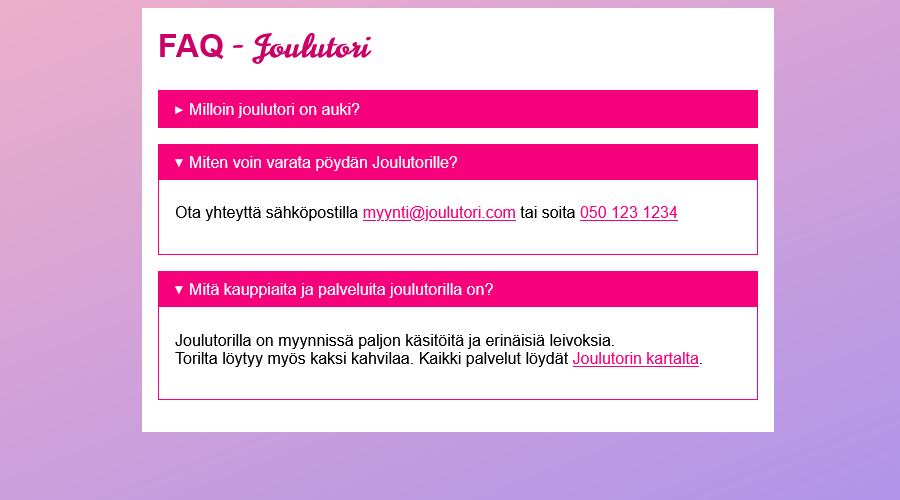
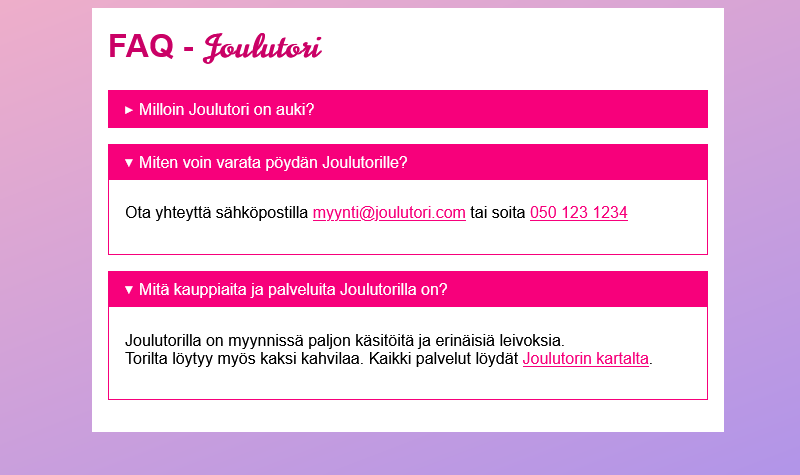
add e9

Changed region(s): [[0.0938, 0.0, 0.9062, 0.9137]]

diff --git a/exercises/e9/e9.html b/exercises/e9/e9.html
@@ -1,0 +1,258 @@
+<!DOCTYPE html>
+<html lang="en">
+<head>
+    <meta charset="UTF-8">
+    <meta http-equiv="X-UA-Compatible" content="IE=edge">
+    <meta name="viewport" content="width=device-width, initial-scale=1.0">
+    <title>Harjoitus 9</title>
+      <style>
+    @import url('https://fonts.googleapis.com/css2?family=Open+Sans:ital,wght@0,400;0,700;1,400&display=swap');
+
+    html {
+      font-family: 'Open Sans', sans-serif;
+    }
+    img {
+      max-width: 600px;
+    }
+    xmp {
+      line-height: 1.5em;
+      background-color: #111;
+      color: white;
+      padding: 1em;
+    }
+    .sides{
+      display: flex;
+      align-items: flex-start;
+      justify-content: left;
+      gap: 1em;
+      flex-basis:30%;
+      flex-wrap: wrap;
+
+    }
+    .sides img{
+      object-fit: contain;
+      max-width: 100%;
+      border: solid thin black;
+
+    }
+    .split{
+        display: flex;
+    
+    }
+    .split div{
+         flex-basis: 50%;
+    }
+    .fav_media_icon{
+        height: 1.4em;
+    }
+
+  </style>
+</head>
+<body>
+<h1>Web-Sovelluksen Käyttöliittymä</h1>
+    <xmp>html_css_basics
+|
+├── demos
+│   └── ...
+|
+├── exercises
+│   ├── ...
+│   └── e9
+│       ├── style.css
+│       ├── index.html
+│       └── img
+│           ├── {fav_icon.png}
+│           ├── bird1.jpg
+│           ├── bird2.jpg
+│           └── bird3.jpg
+|
+</xmp>
+<h2>Toteuta puhelinsovellusta muistuttava nettisivu</h2>
+<ul>
+    <li>Sivuston aiheen ja linkit voit valita itse</li>
+    <li>Kaikki html koodi on yhdessä index.html tiedostossa ja tyylit style.css</li>
+    <li>Vain yksi pääsisältöelementti on kerrallaan näkyvissä (photos, videos tai stories)</li>
+    <li>Alavalikosta vaihdetaan näkyvissä olevaa elementtiä, mutta käyttäjä pysyy silti sivulla index.html</li>
+    <li>Toteutus on siis single-page-application (SPA)</li>
+
+    <li>Käynnistä Live Server ja tarkastele sivua responsiivisessa kehittäjätilassa</li>
+    <li>
+        Firefox: Hiiren oik. > Inspect > Resposive Design Mode (puhelinkuvake)
+    </li>
+    <li>
+        Chrome: Hiiren oik. > Tarkista > Toggle device toolbar (puhelinkuvake)
+    </li>
+
+</ul>
+<div class="sides">
+    <img src="img/photos.png" alt="photos">
+    <img src="img/videos.png" alt="videos">
+    <img src="img/stories.png" alt="stories">
+</div>
+<hr>
+<h2>HTML</h2>
+<ul>
+<li>Lisää fav-icon <img src="img/media-icon.png" alt="media" class="fav_media_icon"> headiin ja muut elementit bodyyn </li>
+<li>Lisää navigaatio (nav) jossa on lista (ul) jossa on listakohtia (li)</li>
+<li>Listakohtia on 3 ja niiden sisällä on linkki (a) jonka sisällä on svg-kuva ja linkkiteksti </li>
+<li>Käytä esim. <a href="https://heroicons.com/" target="_blank">Heroicons</a> sivua:<br>Etsi sopiva kuvake. Vie hiiri kuvakkeen päälle ja klikkaa Copy SVG<br>
+    Liitä leikepöydälle saamasi koodi li-tagin sisälle linkkitekstin kanssa</li>
+</ul>
+<img src="img/mobile_nav.jpg" alt="mobile_nav">
+
+<ul>
+    <li>Tee main-elementti ja lisää sen sisälle 3 section-elementtiä</li>
+    <li>Laita sectioneille yksilöivät id:t joihin viittaat navigaation a-tageissa (href)</li>
+    <li>Kunkin sectionin sisällä on h2 jossa lukee osion nimi (photos, videos, stories)</li>
+    <li>Muu osion sisältö on kääritty ylimääräiseen  diviin</li>
+</ul>
+
+<div class="split">
+    <div><h3>Section #photos</h3>
+        <ul>
+            <li>Lisää otsikko h2 Photos</li>
+<li>Lisää kuvia ja kuvatekstejä käyttäen figure-figcaption yhdistelmää</li>
+
+        </ul>
+    </div>
+    <div><img src="img/photos_sec.jpg" alt="photos_sec">
+
+</div>
+</div>
+
+<div class="split">
+    <div><h3>Section #videos</h3>
+        <ul>
+        <li>Käytä edellisen tapaan figure-figcaption yhdistelmää,<br>mutta vaihda img tagin tilalle YouTube iframe upotuskoodi.</li>
+<li>Poista iframen width ja height parametrit</li>
+
+    </ul>
+    </div>
+    <div><img src="img/videos_sec.jpg" alt="videos_sec"></div>
+</div>
+<div class="split">
+    <div><h3>Section #stories</h3>
+<ul>
+    <li>Lisää article tageja joissa on h3 otsikko artikkelille</li>
+    <li>Tekstisisältö on yhdessä tai useammassa p-tagissa</li>
+    <li>Lisää kirjoittajan tiedot i-tagilla</li>
+</ul>
+</div>
+    <div><img src="img/stories_sec.jpg" alt="stories_sec"></div>
+</div>
+
+
+<hr>
+<h2>CSS</h2>
+
+
+<ul>
+    <li>Valitse mieleisesti Google Fontti ja importtaa siitä italic, regular ja bold -leikkaukset</li>
+    <li>Määrittele valmiiksi linkkien ja tekstien värejä :root muuttujiksi</li>
+    <li>Lisää myös navigaation korkeus (50px) ja otsikon korkeus (50px) -muuttujat</li>
+    <li>laita * selektorille  box-sizing: border-box;</li>
+</ul>
+<ul>
+    <li><b>body</b></li>
+    <li>Nollaa bodyn marginaalit</li>
+    <li>Aseta valitsemasi Google Fontti</li>
+    <li>aseta taustaväri ja tekstin väri</li>
+</ul>
+<ul>
+    <li><b>h2</b></li>
+    <li>h2 toimii sivun otsikkona</li>
+    <li>aseta sille position: fixed;</li>
+    <li>ja leveys 100%</li>
+    <li>asemoi otsikko ylös ja vasemmalle top: 0; left: 0;</li>
+    <li>aseta korkeudeksi otsikon korkeus -muuttuja</li>
+    <li>keskitä teksti ja aseta otsikon väri</li>
+</ul>
+
+<ul>
+    <li><b>nav</b></li>
+    <li>aseta alanavigaation taustaväri ja tekstin väri</li>
+    <li>aseta korkeudeksi navigaation korkeus -muuttuja</li>
+    <li>aseta position: fixed; ja bottom: 0;</li>
+    <li>nyt navigaatio pysyy sivun alalaidassa ja on helpompi käyttää kännykällä</li>
+    <li>aseta leveydeksi 100%</li>
+</ul>
+
+<ul>
+    <li><b>nav ul</b></li>
+    <li>nollaa marginaalit ja paddingit</li>
+    <li>Lisää display:flex; justify-content: space-around;</li>
+    <li>keskitä flex elementit myös pystysuunnassa</li>
+    <li>piennnä fonttia tarvittaessa</li>
+    <li>aseta korkeudeksi 100%</li>
+    <li>nyt navigaation linkit ovat tasaisin välimatkoin alapalkissa</li>
+</ul>
+
+<ul>
+    <li><b>nav a, nav a:visited</b></li>
+    <li>aseta linkkien väri</li>
+    <li>poista alleviivaus</li>
+    <li>aseta display: flex; flex-direction: column;</li>
+    <li>jolloin linkin kuvake ja teksti menevät päällekkäin</li>
+</ul>
+
+<ul>
+    <li><b>nav svg</b></li>
+    <li>aseta kuvakkeen korkeus esim. 20px</li>
+    <li>vaihda kuvakkeen väriä stroke: rgb(0, 255, 200); tai käytä määrittelemääsi muuttujaa</li>
+    <li>Jos kuvake ei muodostu ääriviivoista, kuten Heroiconsin kuvakkeet niin kokeile fill: rgb(0, 255, 200);</li>
+    <li>Tee hover-pseudo ja vaihda linkkitekstin ja kuvakkeen väriä hover-tilassa</li>
+</ul>
+
+<ul>
+    <li><b>main h2 + div</b></li>
+    <li>Aseta main elementin korkeus siten, että se täyttää koko ruudun miinus ylä ja alapalkkien korkeus</li>
+    <li>height: calc(100vh - var( --nav_height) - var(--heading_height));</li>
+    <li>lisää ylämarginaalia otsikon korkeuden verran</li>
+    <li>keskitä teksti vasemmalle</li>
+    <li>aseta overflow-y: auto; jotta main elementtiä voi scrollata jos sisältö ei mahdu ruutuun</li>
+    <li>lisää padding: 1em;</li>
+</ul>
+<ul>
+<li><b>p</b></li>
+<li>pienennä paragraph pagin ylämarginaalia</li>
+</ul>
+<ul>
+<li><b>section</b></li>
+<li>aseta display: none;</li>
+<li>koska vain yhden sectionin on tarkoitus olla kerrallaan näkyvissä</li>
+</ul>
+<ul>
+<li><b>#photos</b></li>
+<li>Jos ensimmäisen sectionisi id on photos, niin laita se oletuksena näkyville display: block;</li>
+<li>section:target</li>
+<li>aseta display: block; koska klikattaessa sectionin tulee ilmestyä näkyville</li>
+<li>section:target ~ #photos</li>
+<li>aseta display: none; koska muiden kuin klikatun sectionin pitää samalla piiloutua</li>
+</ul>
+<ul>
+<li><b>figure</b></li>
+<li>poista figuren marginaalit, paitsi alamarginaali</li>
+<li><b>figure img</b></li>
+<li>aseta maksimileveys 100%</li>
+<li><b>figcaption</b></li>
+<li>boldaa teksti</li>
+</ul>
+<ul>
+<li><b>h3</b></li>
+<li>säädä väliotsikon marginaaleja pienemmäksi</li>
+</ul>
+<ul>
+<li><b>i</b></li>
+<li>tasaa teksti oikealle</li>
+<li>lisää display: block; jolloin i tagi täyttää koko parentin leveyden ja tasaus toimii</li>
+<li>vaihda tekstin väri harmaaksi</li>
+</ul>
+<ul>
+<li><b>iframe</b></li>
+<li>lisää leveys 100%</li>
+<li>lisää aspect-ratio: 16/9; jolloin korkeus määräytyy leveyden perusteella mittasuhteet säilyttäen</li>
+</ul>
+<p>PS. Tallenna GitHubiin</p>
+
+</body>
+</html>

diff --git a/exercises/e8/e8.html b/exercises/e8/e8.html
@@ -11,6 +11,9 @@
     html {
       font-family: 'Open Sans', sans-serif;
     }
+    body{
+      overflow-x: hidden;
+    }
     img {
       max-width: 600px;
     }
@@ -19,6 +22,7 @@
       background-color: rgb(116, 0, 58);
       color: white;
       padding: 1em;
+      
     }
     .sides{
       display: flex;
@@ -33,7 +37,11 @@
       max-width: 100%;
 
     }
-
+@media only screen and (max-width: 1200px) {
+  .sides {
+    flex-direction: column;
+  }
+}
   </style>
 </head>
 <body>
@@ -52,16 +60,18 @@
 │       └── index.html
 |
 </xmp>
+
+
 <pre>
 FAQ - Joulutori
 
-Milloin joulutori on auki?
+Milloin Joulutori on auki?
 1.12.–23.12. klo 08.00 – 20.00 ja netissä 24h
 
 Miten voin varata pöydän Joulutorille?
 Ota yhteyttä sähköpostilla myynti@joulutori.com tai soita 050 123 1234
 
-Mitä kauppiaita ja palveluita joulutorilla on?
+Mitä kauppiaita ja palveluita Joulutorilla on?
 Joulutorilla on myynnissä paljon käsitöitä ja erinäisiä leivoksia.
 Torilta löytyy myös kaksi kahvilaa. Kaikki palvelut löydät Joulutorin kartalta.
 
